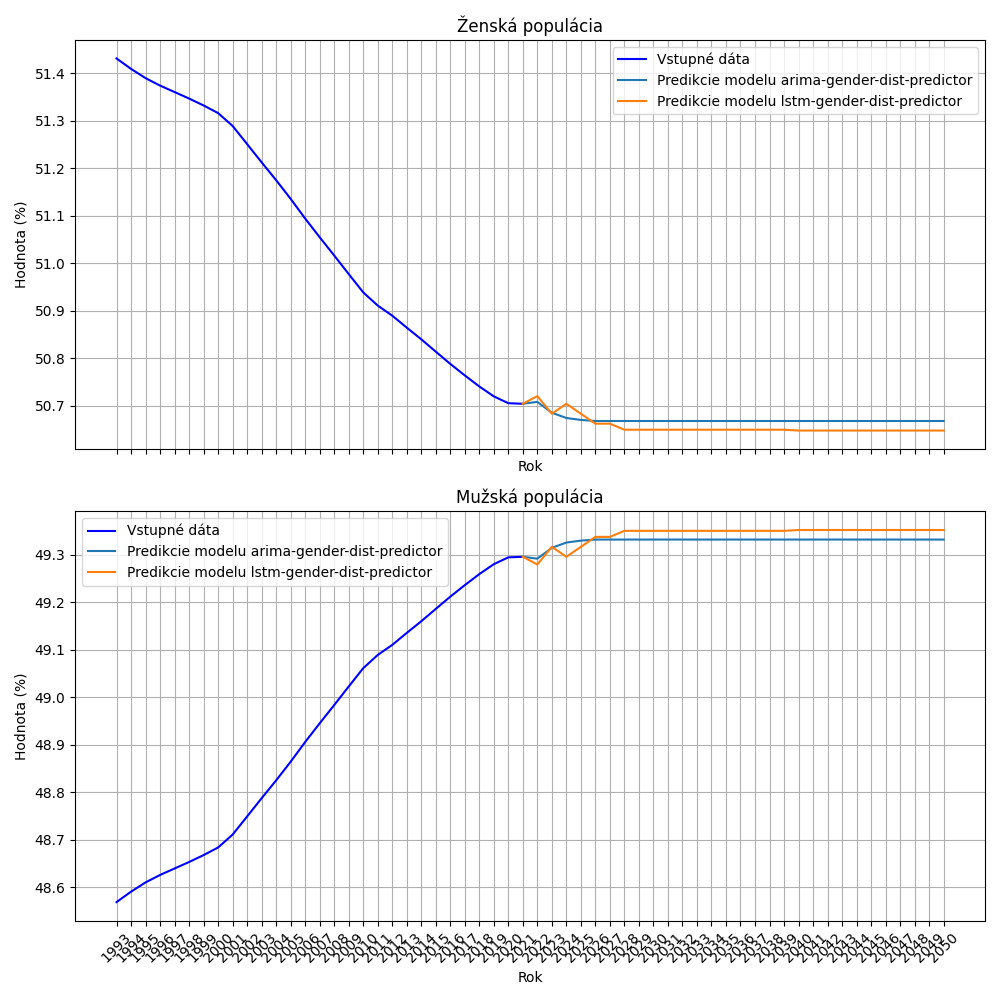
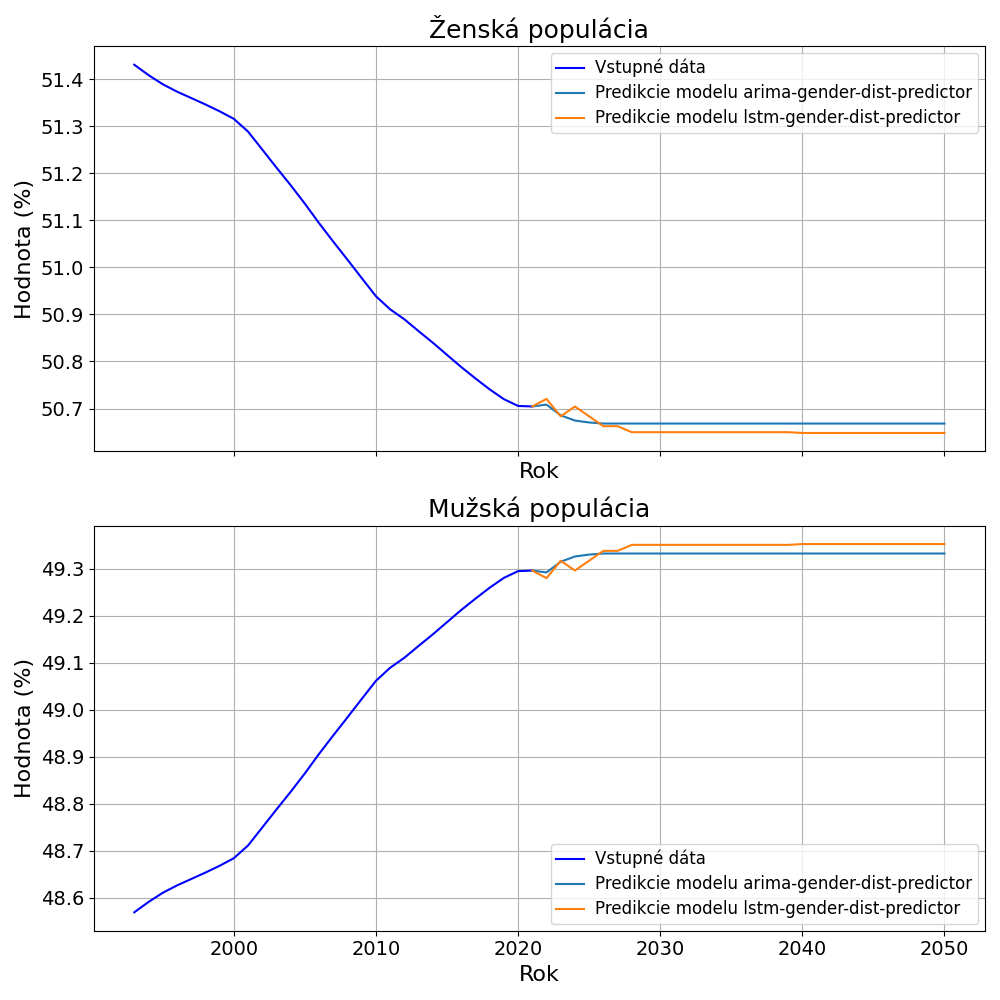
change label size for plots (again)

Changed region(s): [[0.0, 0.0, 0.992, 0.992]]

diff --git a/src/cli/cli.py b/src/cli/cli.py
@@ -249,9 +249,12 @@ def compare_predictions(
     for i, target in enumerate(TARGETS):
 
         # Set the descriptions of axes
-        axes[i].set_title(f"{translate_target(target, to_capitalize=True)}")
-        axes[i].set_xlabel(LABELS[LANG]["year"])
-        axes[i].set_ylabel(LABELS[LANG]["value"])
+        axes[i].set_title(
+            f"{translate_target(target, to_capitalize=True)}", fontsize=18
+        )
+        axes[i].set_xlabel(LABELS[LANG]["year"], fontsize=16)
+        axes[i].set_ylabel(LABELS[LANG]["value"], fontsize=16)
+        axes[i].tick_params(axis="both", labelsize=14)
 
         if plot_input_data:
             # Plot the input data
@@ -279,10 +282,14 @@ def compare_predictions(
                 label=f"{LABELS[LANG]['prediction_for']} {name}",
             )
 
-        axes[i].legend()
+        legend = axes[i].legend()
+        if legend is not None:
+            for text in legend.get_texts():
+                text.set_fontsize(12)
+
         axes[i].grid()
-        axes[i].set_xticks(YEARS)
-        axes[i].set_xticklabels(YEARS, rotation=45)
+        # axes[i].set_xticks(YEARS)
+        # axes[i].set_xticklabels(YEARS, rotation=45)
 
     # Save the plot
     plt.tight_layout()
